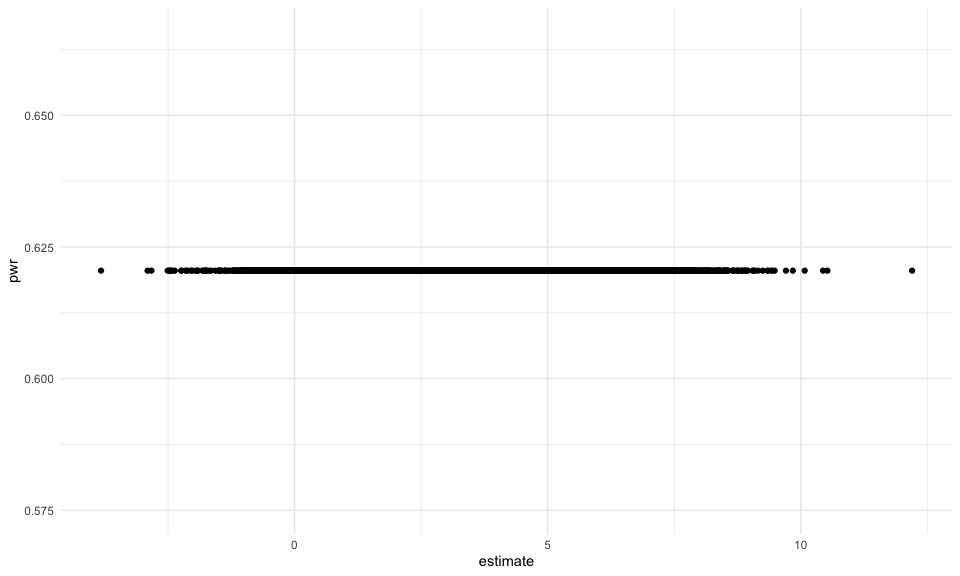
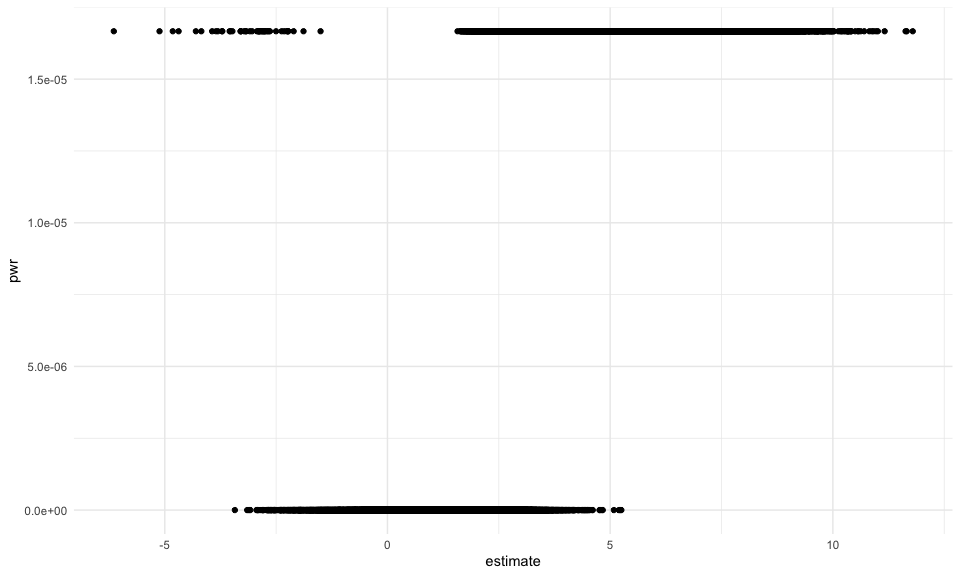
didn't crash

diff --git a/hw_5.md b/hw_5.md
@@ -132,8 +132,8 @@ sim_regression = function(n = 30, beta0 = 2, beta1 = 0, variance = 50) {
 # visualize results from function
 
 output = 
-  vector("list", length = 100)
-  for (i in 1:100) {
+  vector("list", length = 10000)
+  for (i in 1:10000) {
   
   output[[i]] = sim_regression(beta1 = 1)
   
@@ -142,7 +142,7 @@ output =
 bind_rows(output) 
 ```
 
-    ## # A tibble: 200 x 5
+    ## # A tibble: 20,000 x 5
     ##    term        estimate std.error statistic p.value
     ##    <chr>          <dbl>     <dbl>     <dbl>   <dbl>
     ##  1 (Intercept)   0.362       1.27    0.284  0.779  
@@ -155,13 +155,13 @@ bind_rows(output)
     ##  8 x             0.0375      1.20    0.0311 0.975  
     ##  9 (Intercept)   4.09        1.20    3.42   0.00196
     ## 10 x             2.61        1.20    2.17   0.0388 
-    ## # … with 190 more rows
+    ## # … with 19,990 more rows
 
 ``` r
 sim_results = 
   tibble(beta_ones= c(1,2,3,4,5,6)) %>%
   mutate(
-    output_list = map(.x = beta_ones, ~ rerun(1000, sim_regression(beta1 = .x))),
+    output_list = map(.x = beta_ones, ~ rerun(10000, sim_regression(beta1 = .x))),
     beta_hats = map(output_list, bind_rows)) %>% 
   select(-output_list) %>% 
   unnest(beta_hats) %>%
@@ -170,20 +170,20 @@ sim_results =
 sim_results
 ```
 
-    ## # A tibble: 6,000 x 6
+    ## # A tibble: 60,000 x 6
     ##    beta_ones term  estimate std.error statistic p.value
     ##        <dbl> <chr>    <dbl>     <dbl>     <dbl>   <dbl>
-    ##  1         1 x       2.38       1.05     2.26    0.0316
-    ##  2         1 x       0.652      1.66     0.392   0.698 
-    ##  3         1 x      -2.44       1.58    -1.54    0.134 
-    ##  4         1 x       0.245      1.32     0.186   0.854 
-    ##  5         1 x       0.138      1.27     0.109   0.914 
-    ##  6         1 x      -0.120      1.30    -0.0924  0.927 
-    ##  7         1 x       0.612      0.922    0.663   0.513 
-    ##  8         1 x       0.0846     0.876    0.0966  0.924 
-    ##  9         1 x      -0.616      1.38    -0.448   0.658 
-    ## 10         1 x       2.35       1.11     2.12    0.0427
-    ## # … with 5,990 more rows
+    ##  1         1 x        1.29       1.20     1.08   0.291 
+    ##  2         1 x        2.12       1.32     1.61   0.119 
+    ##  3         1 x        0.702      1.62     0.434  0.667 
+    ##  4         1 x       -1.35       1.39    -0.972  0.339 
+    ##  5         1 x        1.62       1.16     1.39   0.175 
+    ##  6         1 x        2.83       1.66     1.70   0.1000
+    ##  7         1 x        3.04       1.75     1.73   0.0939
+    ##  8         1 x        0.703      1.34     0.523  0.605 
+    ##  9         1 x        1.54       1.40     1.10   0.282 
+    ## 10         1 x        3.11       1.29     2.41   0.0225
+    ## # … with 59,990 more rows
 
 ``` r
 # plot showing the proportion of times the null was rejected (the power of the test) on the y axis and the true value of β1 on the x axis
@@ -191,13 +191,14 @@ sim_results %>%
   janitor::clean_names() %>%
   mutate(sig= p_value< 5.0e-02,
          total= nrow(sim_results)) %>%
+  group_by(estimate) %>%
   mutate(true_sig= sum(sig, na.rm = TRUE)) %>%
   mutate(pwr= true_sig/total) %>% 
   ggplot(aes(x = estimate, y = pwr)) + 
   geom_point()
 ```
 
-<img src="hw_5_files/figure-markdown_github/unnamed-chunk-7-1.png" width="90%" /> • Describe the association between effect size and power
+<img src="hw_5_files/figure-markdown_github/unnamed-chunk-7-1.png" width="90%" /> • As the effect size increases, the power increases.
 
 ``` r
 # Make a plot showing the average estimate of β̂ 1 on the y axis and the true value of β1 on the x axis
@@ -210,7 +211,7 @@ one_plot=
   ggplot(aes(x = estimate, y = mean)) + 
   geom_point() +
   labs(
-    title = "Plot One",
+    title = "All scenarios",
     x = " true value of β",
     y = "average estimate of β̂ ")
 
@@ -226,7 +227,7 @@ two_plot=
   ggplot(aes(x = estimate, y = mean)) + 
   geom_point() +
   labs(
-    title = "Plot Two",
+    title = "Where null was rejected",
     x = "true value of β1 on the x axis",
     y = "average estimate of β" )
 
@@ -259,4 +260,4 @@ patchwork::plot_layout(one_plot + two_plot)
     ## attr(,"class")
     ## [1] "plot_layout"
 
-• Is the sample average of β̂ 1 across tests for which the null is rejected approximately equal to the true value of β1? Why or why not?
+• The sample average of β̂ 1 across tests for which the null is rejectedis not equal to the true value of β1 because the sample has been narrowed to only tests with significant p-values, thre range is much more precise.
